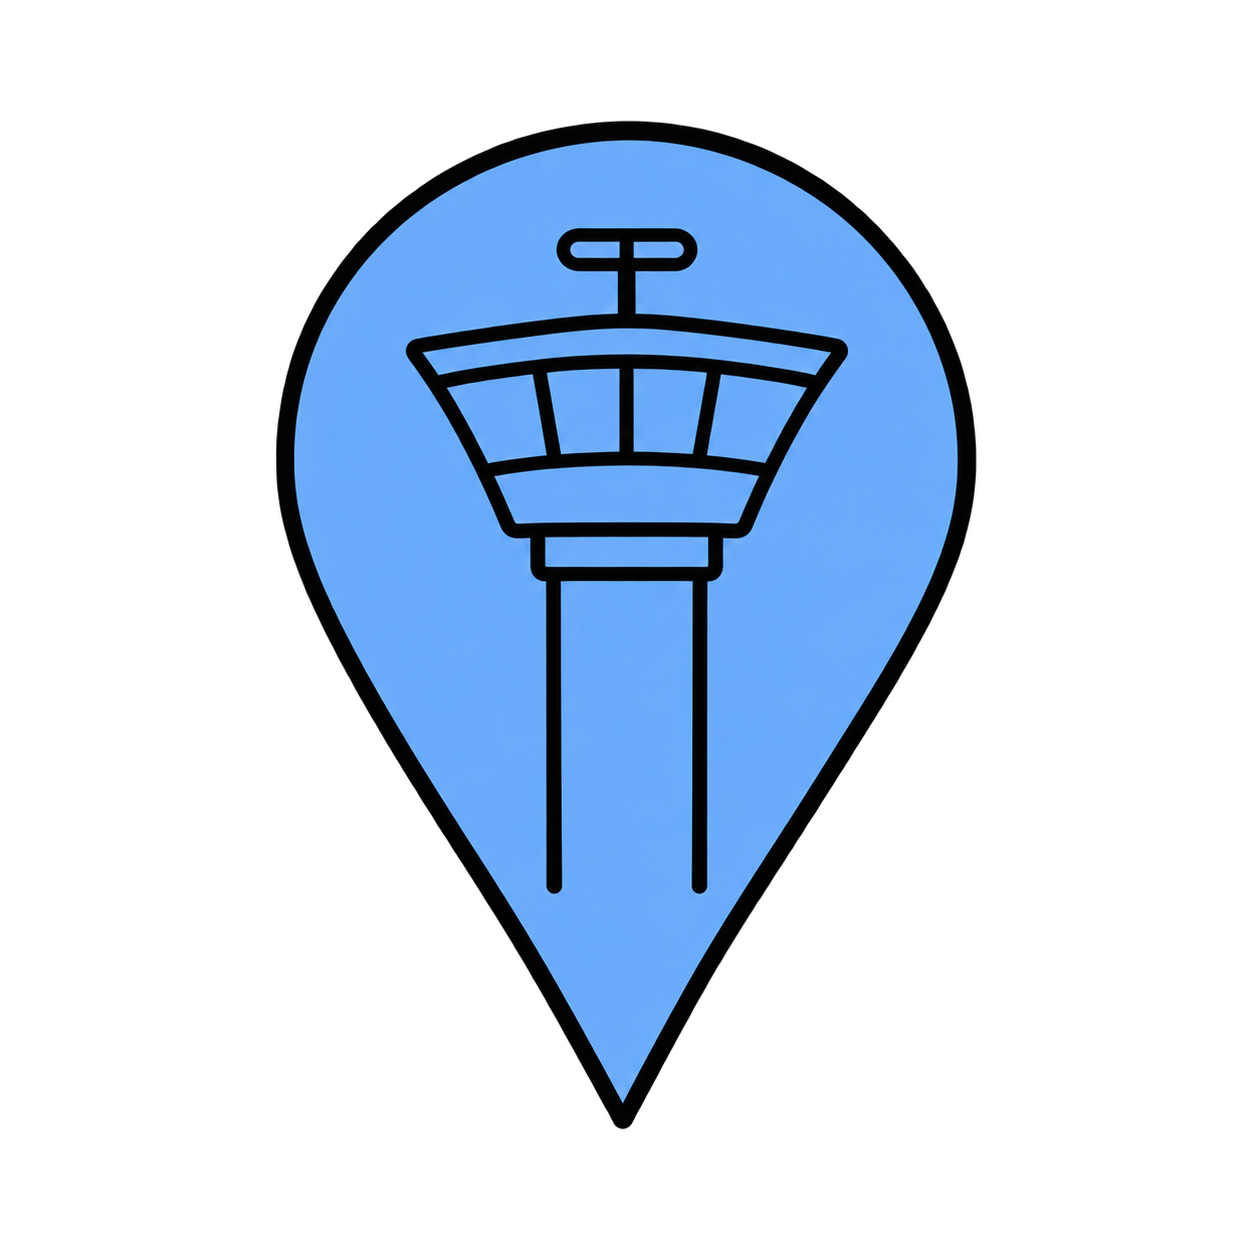
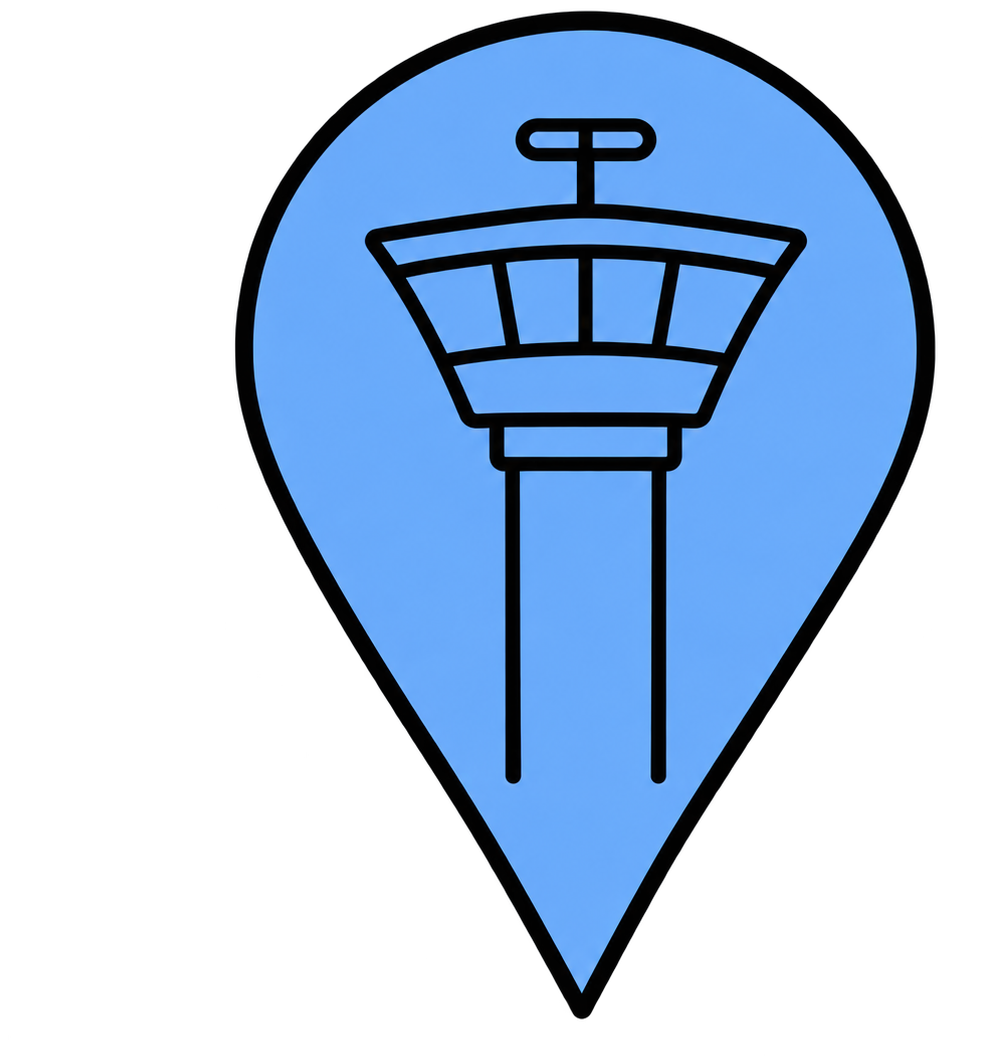
Add files via upload

Changed region(s): [[0.2121, 0.0, 0.9697, 0.9615]]

diff --git a/index.html b/index.html
@@ -3,7 +3,7 @@
 <head>
   <meta charset="utf-8" />
   <meta name="viewport" content="width=device-width, initial-scale=1, maximum-scale=1, user-scalable=no, viewport-fit=cover" />
-  <title>KoreaVFR_v2.14</title>
+  <title>KoreaVFR_v2.15</title>
 
   <link
     href="https://unpkg.com/maplibre-gl@6.13.0/dist/maplibre-gl.css"
@@ -1028,7 +1028,7 @@
 <body>
   <div id="map"></div>
   <div id="runtimeStatusBanner"></div>
-  <div id="simulationStatus" role="status" style="position:fixed;top:12px;left:12px;z-index:1000;padding:8px 12px;border-radius:8px;background:#673b00;color:#fff;font:700 12px/1.5 Arial,sans-serif;pointer-events:none">KoreaVFR_v2.14 · SIM — 가상 위치<br><span id="magneticStatus">자기편차 확인 중</span></div>
+  <div id="simulationStatus" role="status" style="position:fixed;top:12px;left:12px;z-index:1000;padding:8px 12px;border-radius:8px;background:#673b00;color:#fff;font:700 12px/1.5 Arial,sans-serif;pointer-events:none">KoreaVFR_v2.15 · SIM — 가상 위치<br><span id="magneticStatus">자기편차 확인 중</span></div>
 
   <div id="routeInfoShell" class="route-info-shell hidden">
     <div class="route-info-panel">
@@ -1121,9 +1121,10 @@
 
     <div id="fixCenterPicker" hidden><button id="fixCenterConfirm" type="button">FIX설정하기</button><div id="fixCenterPin"></div><div id="fixCenterCross"></div></div>
     <section id="fixPopup" hidden aria-label="커스텀 픽스 설정">
-      <div style="display:flex;justify-content:space-between"><strong>FIX 설정 · 임시 저장</strong><button id="fixClose" class="popup-close" aria-label="닫기">×</button></div>
+      <div style="display:flex;justify-content:space-between"><strong>FIX 설정 · 기기 저장</strong><button id="fixClose" class="popup-close" aria-label="닫기">×</button></div>
       <label for="fixName">픽스 명</label><input id="fixName" maxlength="40" />
       <label>좌표</label><div id="fixCoordinates"></div>
+      <label for="fixNote">Note</label><input id="fixNote" maxlength="1000" />
       <label for="fixRadius">범위 (반경 NM)</label><input id="fixRadius" type="number" min="0" max="200" step="0.1" value="0" />
       <label for="fixUpper">상단고도 (ft)</label><div class="fix-alt-row"><input id="fixUpper" type="number" min="0" max="60000" /><button id="fixUpperRef" type="button">MSL</button></div>
       <label for="fixLower">하단고도 (ft)</label><div class="fix-alt-row"><input id="fixLower" type="number" min="0" max="60000" /><button id="fixLowerRef" type="button">MSL</button></div>
@@ -1142,6 +1143,8 @@
       <div id="pressureDial" aria-label="기압 회전 다이얼"><svg viewBox="0 0 400 400" aria-hidden="true"><g id="pressureTicks"></g><path d="M8 195 L30 200 L8 205 Z" fill="#ffdb48" /></svg><button id="pressureClose" type="button" aria-label="기압 도구 닫기">×</button></div>
     </section>
     <script type="module">
+  import * as waypointRepository from "./js/data/custom-waypoint-repository.mjs";
+  import { createWaypointId } from "./js/models/custom-waypoint.mjs";
   import { mountPositionReport } from "./js/position-report-ui.mjs";
   import { mountPressureTool } from "./js/pressure-tool.mjs";
   mountPressureTool();
@@ -4598,6 +4601,15 @@
 
       ensureRouteLayers();
       ensureCustomFixLayers();
+      try{
+        const records=await waypointRepository.getAllCustomWaypoints();
+        for(const record of records){
+          if(typeof record.id!=="string"||!Number.isFinite(record.latitude)||!Number.isFinite(record.longitude))continue;
+          await createCustomFix({lng:record.longitude,lat:record.latitude},{radiusNM:0,lowerFeet:null,upperFeet:null,lowerRef:"MSL",upperRef:"MSL",...record,saved:true});
+        }
+        nextFixId=customFixes.length+1;
+        updateCustomFixSource();
+      }catch(error){reportWaypointError(error);}
       ensureAircraftProjectionLayer();
       updateGroundRouteVisibility();
 
@@ -4929,13 +4941,13 @@
       fixCenterPicker.hidden = true;
       createCustomFix(location);
     });
-    fixModeBtn.addEventListener("click", () => {
+    fixModeBtn.addEventListener("click", async () => {
       fixModeActive = !fixModeActive;
       fixModeBtn.classList.toggle("active", fixModeActive);
       fixModeBtn.setAttribute("aria-pressed", String(fixModeActive));
       fixCenterPicker.hidden = !fixModeActive;
       if (fixModeActive) followSuspendedByUser = true;
-      if (!fixModeActive && selectedFix && !saveCurrentFix()) {
+      if (!fixModeActive && selectedFix && !(await saveCurrentFix())) {
         fixModeActive = true; fixModeBtn.classList.add("active");fixModeBtn.setAttribute("aria-pressed","true");
       }
     });
@@ -4983,32 +4995,41 @@
       }
       return "";
     }
-    function openFixPopup(fix) {
-      if (selectedFix && selectedFix !== fix && !saveCurrentFix()) return;
+    async function openFixPopup(fix) {
+      if (selectedFix && selectedFix !== fix && !(await saveCurrentFix())) return;
       selectedFix = fix;
       fixInput("fixName").value = fix.name;
+      fixInput("fixNote").value = fix.note ?? "";
       fixInput("fixRadius").value = fix.radiusNM;
       fixInput("fixUpper").value = fix.upperFeet ?? "";
       fixInput("fixLower").value = fix.lowerFeet ?? "";
       fixInput("fixUpperRef").textContent = fix.upperRef;
       fixInput("fixLowerRef").textContent = fix.lowerRef;
       fixInput("fixCoordinates").textContent = `${formatLat(fix.latitude)} / ${formatLon(fix.longitude)}`;
-      fixInput("fixError").textContent = "임시 저장: 새로고침하면 삭제됩니다. AGL 3D는 DEM이 로드된 영역에서 표시됩니다.";
+      fixInput("fixError").textContent = "기기에 저장됩니다. AGL 3D는 DEM이 로드된 영역에서 표시됩니다.";
       fixPopup.hidden = false;
     }
     function closeFixPopup() {
       if (selectedFix) saveCurrentFix();
       else fixPopup.hidden = true;
     }
-    function removeCustomFix(id) {
+    function reportWaypointError(error) {
+      console.error("Custom Waypoint storage:",error);
+      fixInput("fixError").textContent="기기 저장 실패 — 변경 내용이 저장되지 않았습니다. 다시 시도하세요.";
+      showRuntimeStatus("커스텀 FIX 저장소 오류: "+(error?.message??String(error)));
+    }
+    async function removeCustomFix(id) {
+      const existing=customFixes.find(f=>f.id===id);
+      if(existing?.saved){try{await waypointRepository.deleteCustomWaypoint(id);}catch(error){reportWaypointError(error);return false;}}
       const index = customFixes.findIndex(f => f.id === id);
       if (index >= 0) customFixes.splice(index, 1);
       fixMarkers.get(id)?.remove(); fixMarkers.delete(id);
       updateCustomFixSource();
+      return true;
     }
-    function createCustomFix(lngLat) {
-      if (selectedFix && !saveCurrentFix()) return;
-      const fix = {id: nextFixId++, name:`FIX ${nextFixId - 1}`, latitude:lngLat.lat, longitude:lngLat.lng, radiusNM:0, lowerFeet:null, upperFeet:null, lowerRef:"MSL", upperRef:"MSL", saved:false};
+    async function createCustomFix(lngLat, restored = null) {
+      if (!restored && selectedFix && !(await saveCurrentFix())) return;
+      const fix = restored ?? {id: createWaypointId(), name:`FIX ${nextFixId++}`, latitude:lngLat.lat, longitude:lngLat.lng, radiusNM:0, lowerFeet:null, upperFeet:null, lowerRef:"MSL", upperRef:"MSL", saved:false};
       customFixes.push(fix);
       const el = document.createElement("div"); el.className = "custom-fix-pin"; el.innerHTML = pinSvg;
       const name = document.createElement("span"); name.className = "custom-fix-name"; el.appendChild(name);
@@ -5021,6 +5042,7 @@
         event.stopPropagation();
         if (event.button !== 0) return;
         const state = {id:event.pointerId,x:event.clientX,y:event.clientY,dragging:false,timer:null,panWasEnabled:map.dragPan.isEnabled()};
+        state.original={latitude:fix.latitude,longitude:fix.longitude};
         press = state;
         state.timer = setTimeout(() => {
           if (press !== state || !fix.saved) return;
@@ -5040,45 +5062,60 @@
         fix.longitude=ll.lng;fix.latitude=ll.lat;marker.setLngLat(ll);updateCustomFixSource();
         if (selectedFix === fix) fixInput("fixCoordinates").textContent=`${formatLat(fix.latitude)} / ${formatLon(fix.longitude)}`;
       });
-      function finish(event) {
+      async function finish(event) {
         if (!press) return;
         clearTimeout(press.timer);
         const wasDragged=press.dragging;
+        const original=press.original;
         if (wasDragged && press.panWasEnabled) map.dragPan.enable();
         if (el.hasPointerCapture(press.id)) el.releasePointerCapture(press.id);
         el.style.color="";
         if (wasDragged || press.moved) suppressTapUntil=performance.now()+700;
         press=null;
+        if(wasDragged){
+          try{Object.assign(fix,await waypointRepository.updateCustomWaypoint(fix));}
+          catch(error){Object.assign(fix,original);marker.setLngLat([fix.longitude,fix.latitude]);updateCustomFixSource();reportWaypointError(error);}
+        }
       }
       el.addEventListener("pointerup",finish);el.addEventListener("pointercancel",finish);
       el.addEventListener("click",event=>{event.preventDefault();event.stopPropagation();if(!longPressSuppressed())openFixPopup(fix);});
       el.addEventListener("contextmenu",event=>event.preventDefault());
-      openFixPopup(fix);
+      if(restored){name.textContent=fix.name;}else openFixPopup(fix);
     }
     for (const id of ["fixUpperRef","fixLowerRef"]) fixInput(id).addEventListener("click",()=>{fixInput(id).textContent=fixInput(id).textContent === "MSL" ? "AGL" : "MSL";});
     fixInput("fixClose").addEventListener("click",closeFixPopup);
-    fixInput("fixDelete").addEventListener("click",()=>{if(selectedFix)removeCustomFix(selectedFix.id);selectedFix=null;fixPopup.hidden=true;});
-    function saveCurrentFix() {
+    fixInput("fixDelete").addEventListener("click",async()=>{if(selectedFix && !(await removeCustomFix(selectedFix.id)))return;selectedFix=null;fixPopup.hidden=true;});
+    let waypointSavePending=false;
+    async function saveCurrentFix() {
+      if(waypointSavePending)return false;
       if(!selectedFix)return true;
       const numberOrNull=id=>fixInput(id).value.trim()===""?null:Number(fixInput(id).value);
-      const candidate={...selectedFix,name:fixInput("fixName").value.trim(),radiusNM:Number(fixInput("fixRadius").value),upperFeet:numberOrNull("fixUpper"),lowerFeet:numberOrNull("fixLower"),upperRef:fixInput("fixUpperRef").textContent,lowerRef:fixInput("fixLowerRef").textContent};
+      const candidate={...selectedFix,name:fixInput("fixName").value.trim(),note:fixInput("fixNote").value,radiusNM:Number(fixInput("fixRadius").value),upperFeet:numberOrNull("fixUpper"),lowerFeet:numberOrNull("fixLower"),upperRef:fixInput("fixUpperRef").textContent,lowerRef:fixInput("fixLowerRef").textContent};
       const error=validateFix(candidate);if(error){fixInput("fixError").textContent=error;return false;}
-      Object.assign(selectedFix,candidate,{saved:true});
+      waypointSavePending=true;
+      fixPopup.style.pointerEvents="none";
+      fixInput("fixError").textContent="기기에 저장 중…";
+      try{
+        const record=await (selectedFix.saved?waypointRepository.updateCustomWaypoint(candidate):waypointRepository.addCustomWaypoint(candidate));
+        Object.assign(selectedFix,record);
+      }catch(error){reportWaypointError(error);return false;}
+      finally{waypointSavePending=false;fixPopup.style.pointerEvents="";}
       fixMarkers.get(selectedFix.id).getElement().querySelector(".custom-fix-name").textContent=selectedFix.name;
       updateCustomFixSource();selectedFix=null;fixPopup.hidden=true;
       fixCenterPicker.hidden=true;
       fixModeActive=false;fixModeBtn.classList.remove("active");fixModeBtn.setAttribute("aria-pressed","false");
       return true;
     }
-    document.addEventListener("pointerdown",event=>{
+    document.addEventListener("pointerdown",async event=>{
       if(fixPopup.hidden || fixPopup.contains(event.target) || fixModeBtn.contains(event.target) || fixCenterPicker.contains(event.target))return;
-      if (!saveCurrentFix()) { event.preventDefault();event.stopPropagation();return; }
+      event.preventDefault();event.stopPropagation();
+      if (!(await saveCurrentFix()))return;
       if(event.target === map.getCanvas()) suppressTapUntil=performance.now()+500;
     },true);
-    function setFixRouteRole(role) {
+    async function setFixRouteRole(role) {
       if (!selectedFix) return;
       const fix=selectedFix;
-      if(!saveCurrentFix())return;
+      if(!(await saveCurrentFix()))return;
       const point={id:nextPointId++,name:fix.name,latitude:fix.latitude,longitude:fix.longitude,altitudeMslFeet:0,customFixId:fix.id};
       routeModeActive=true;sameOriginDestination=false;pendingDestinationAirport=null;
       if(role === "departure") {
@@ -5328,6 +5365,7 @@
 
     window.movingMap = {
       map,
+      customWaypointRepository: waypointRepository,
 
       getRoute() {
         return JSON.parse(JSON.stringify(route));

diff --git a/README.md b/README.md
@@ -1,18 +1,23 @@
-# KoreaVFR_v2.14
+# KoreaVFR_v2.15
 
-POS 버튼 및 Position Report Assistant 추가.
+Custom Fix / Custom Waypoint IndexedDB 기기 저장.
 
-파일: index.html, js/position-report.mjs, js/position-report-ui.mjs, tests/position-report.test.mjs.
-기준점: 로컬 AIRPORT_POINTS_GEOJSON + 저장된 customFixes. 네트워크 호출 없음.
-위치: 현재 빌드의 aircraft 시뮬레이션 좌표. 기존 updateAircraftPosition 호출 시 POS 갱신, 최대 5Hz.
-계산: Haversine NM, 기준점→항공기 초기 진방위. 동좌표 방향은 AT REF/---.
-방향: N/E/S/W ±10°, 나머지 NE/SE/SW/NW. 소수 방위도 빈 구간 없이 분류.
-Radial: 반올림 후 000~359. 모듈은 UI/브라우저 API에 의존하지 않음.
-드롭다운: 데이터 거리순 계산 후 DOM 10개씩 렌더링. 끝 스크롤 또는 안내 버튼으로 10개 추가.
-닫기: X 또는 지도 클릭. 내부 조작은 이벤트 격리.
+DB koreaVfrDb v1 / customWaypoints / keyPath id (UUID).
+필드: id,name,latitude,longitude,note,createdAt,updatedAt + 기존 radiusNM,고도,AGL/MSL.
+Repository API: getAllCustomWaypoints,getCustomWaypointById,addCustomWaypoint,updateCustomWaypoint,deleteCustomWaypoint.
 
-node --test tests/*.test.mjs
-POS 21개 + 기존 기압계 5개 = 26개 통과.
-기능 계산은 로컬에서 오프라인 동작. 앱 초기 로드와 외부 지도 자원까지 오프라인 지원하는 것은 아님.
-실제 GPS는 아직 미구현. 실기기 지도 이벤트 및 패널 배치 확인 필요.
-ZIP 내용물을 js/assets 포함 GitHub 루트에 업로드.
+- 팝업 자동 저장/닫기/Route 설정은 transaction 완료 후 성공 처리.
+- 실패 시 팝업 유지 및 상태 표시. 저장 도중 팝업 입력 잠금.
+- FIX 드래그 종료 시 좌표 저장, 실패 시 원래 위치 복귀.
+- 삭제 transaction 성공 후 지도 제거. 새 미저장 draft는 DB 삭제 없이 제거.
+- 앱 지도 초기화 시 저장소를 읽어 기존 핀/반경/3D/POS 후보로 복원.
+- Note 입력 필드 추가. Aerodrome 정적 데이터는 변경 없음.
+- 사용자 데이터에 외부 API/서버/GitHub 저장 없음.
+
+검증: node --test tests/*.test.mjs — 28개 통과.
+IndexedDB 계약 테스트 더블에서 CRUD, 연결 재개방, 변경/삭제 유지, 네트워크 금지, 실패를 확인.
+실제 브라우저 새로고침/완전 종료·재접속/인터넷 차단 실기기 검증은 미실시.
+앱·지도 리소스의 오프라인 재실행 확보는 기존처럼 별도 작업이 필요.
+브라우저 저장소 삭제/사생활 모드 등은 일반 영구 저장 보장 범위 밖.
+
+ZIP 내용물을 js/assets 포함해 GitHub 루트에 업로드하세요.
